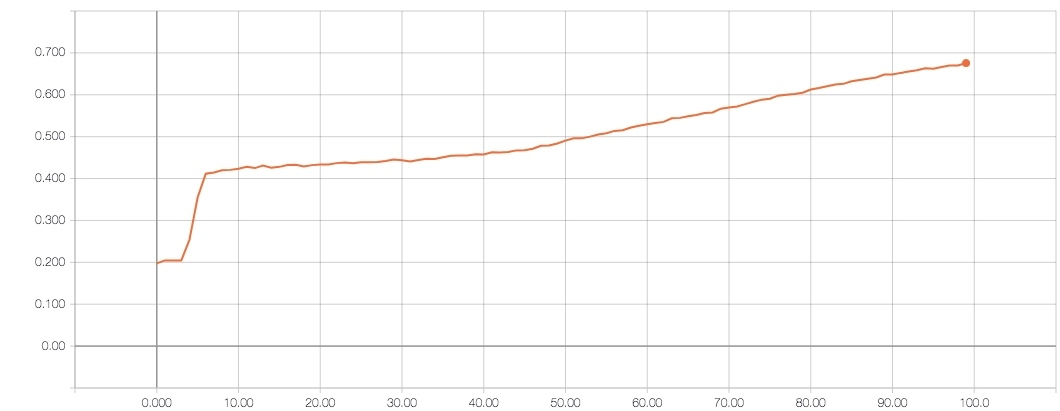
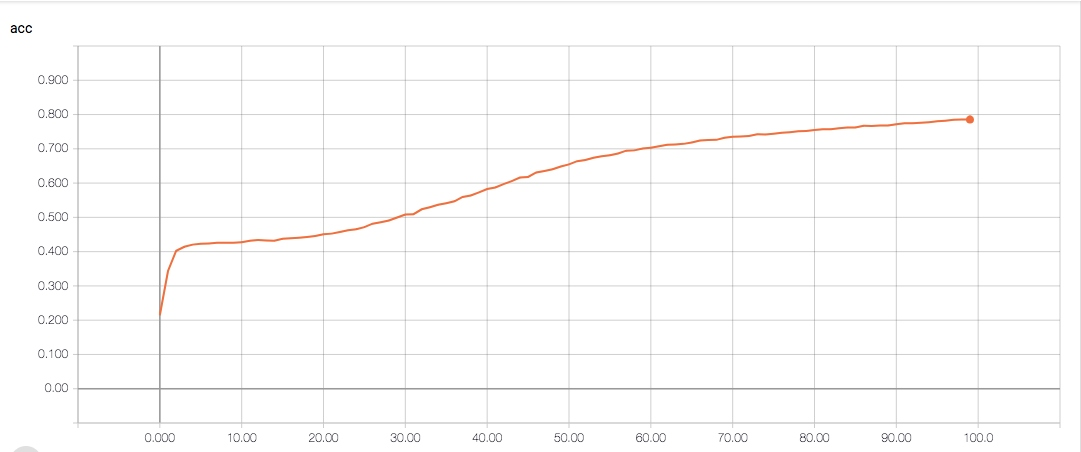
Fix typo and add new results

diff --git a/CLEVR.py b/CLEVR.py
@@ -21,7 +21,7 @@ from scipy import ndimage, misc
 #
 # Loads & Preprocesses CLEVR dataset.
 #
-def load_data(split, n, vocab_size, tokenizer=None):
+def load_data(split, n, vocab_size, sequence_length, tokenizer=None):
 	# Dataset paths
 	path = '../../Datasets/CLEVR_v1.0'
 	questions_path = path + '/questions/CLEVR_' + split + '_questions.json'
@@ -52,8 +52,8 @@ def load_data(split, n, vocab_size, tokenizer=None):
 
 		print('JSON subset saved to file...')
 
-	# Store data
-	print('Storing data...')
+	# Store image data and labels in dictionaries
+	print('Storing image data...')
 
 	for q in data[0:n]:
 		# Create an index for each answer
@@ -70,14 +70,14 @@ def load_data(split, n, vocab_size, tokenizer=None):
 		y.append(labels[q['answer']])
 
 	# Convert question corpus into sequential encoding for LSTM
-	print('Processing data...')
+	print('Processing text data...')
 
 	if not tokenizer:
 		tokenizer = Tokenizer(num_words=vocab_size)
 
 	tokenizer.fit_on_texts(x_text)
 	sequences = tokenizer.texts_to_sequences(x_text)
-	x_text = sequence.pad_sequences(sequences, maxlen=vocab_size)
+	x_text = sequence.pad_sequences(sequences, maxlen=sequence_length)
 
 	# Convert x_image to np array
 	x_image = np.array(x_image)
@@ -142,18 +142,19 @@ epochs = 100
 batch_size = 64
 learning_rate = .00025
 vocab_size = 1024
+sequence_length = 64
 img_rows, img_cols = 320, 480
 image_input_shape = (img_rows, img_cols, 3)
 
 #
 # Load & Preprocess CLEVR
 #
-(x_train, y_train), num_labels, tokenizer = load_data('train', samples, vocab_size)
+(x_train, y_train), num_labels, tokenizer = load_data('train', samples, vocab_size, sequence_length)
 
 #
 # Define LSTM
 #
-text_inputs = Input(shape=(vocab_size,), name='text_input')
+text_inputs = Input(shape=(sequence_length,), name='text_input')
 text_x = Embedding(vocab_size, 128)(text_inputs)
 text_x = LSTM(128)(text_x)
 

diff --git a/README.md b/README.md
@@ -20,7 +20,7 @@ Images are processed using a CNN, while the questions are processed using an LST
 
 ## Experiments
 ### 60000 Questions / 6000 Images
-Training a RN using 10% of the train data results in ~70% accuracy after 100 epochs, which shows that using a random entity selection kernel still results in compelling results after a short training period.
+Training a RN using 10% of the train data results in ~80% accuracy after 100 epochs, which shows that using a random entity selection kernel still results in compelling results after a short training period.
 #### Accuracy Plot
 ![Alt text](images/acc.jpg?raw=true "Accuracy")
 
